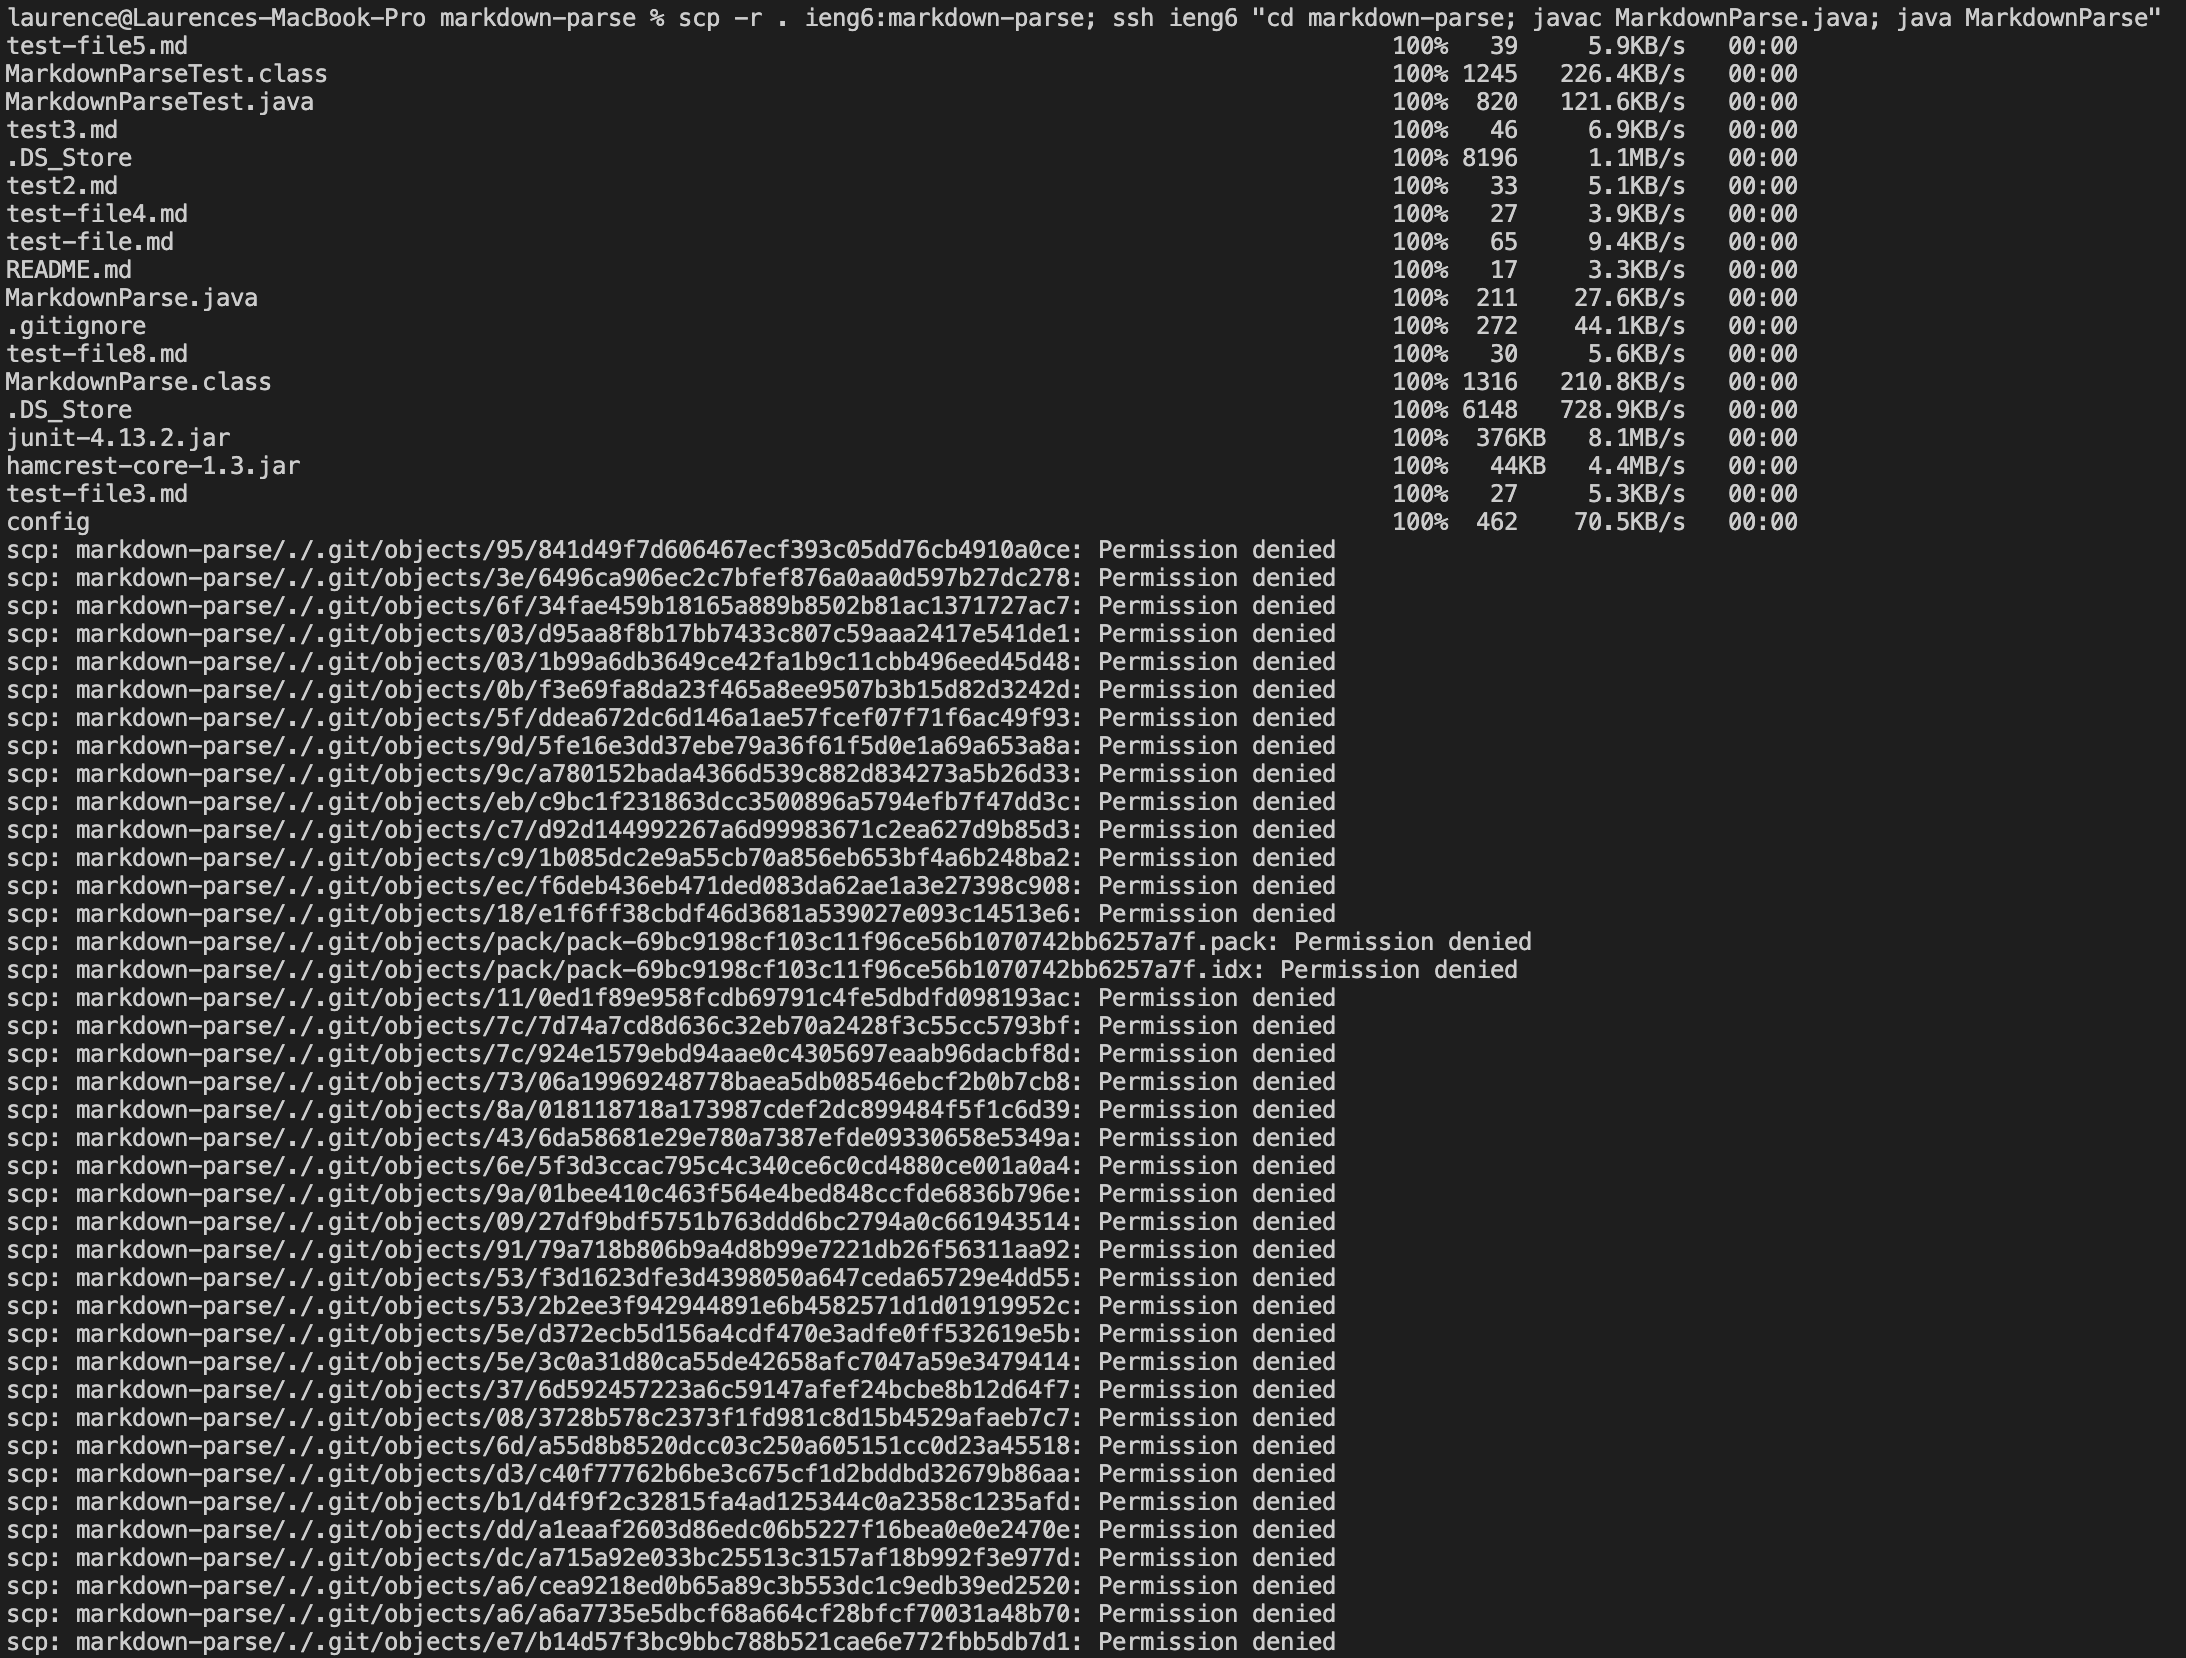
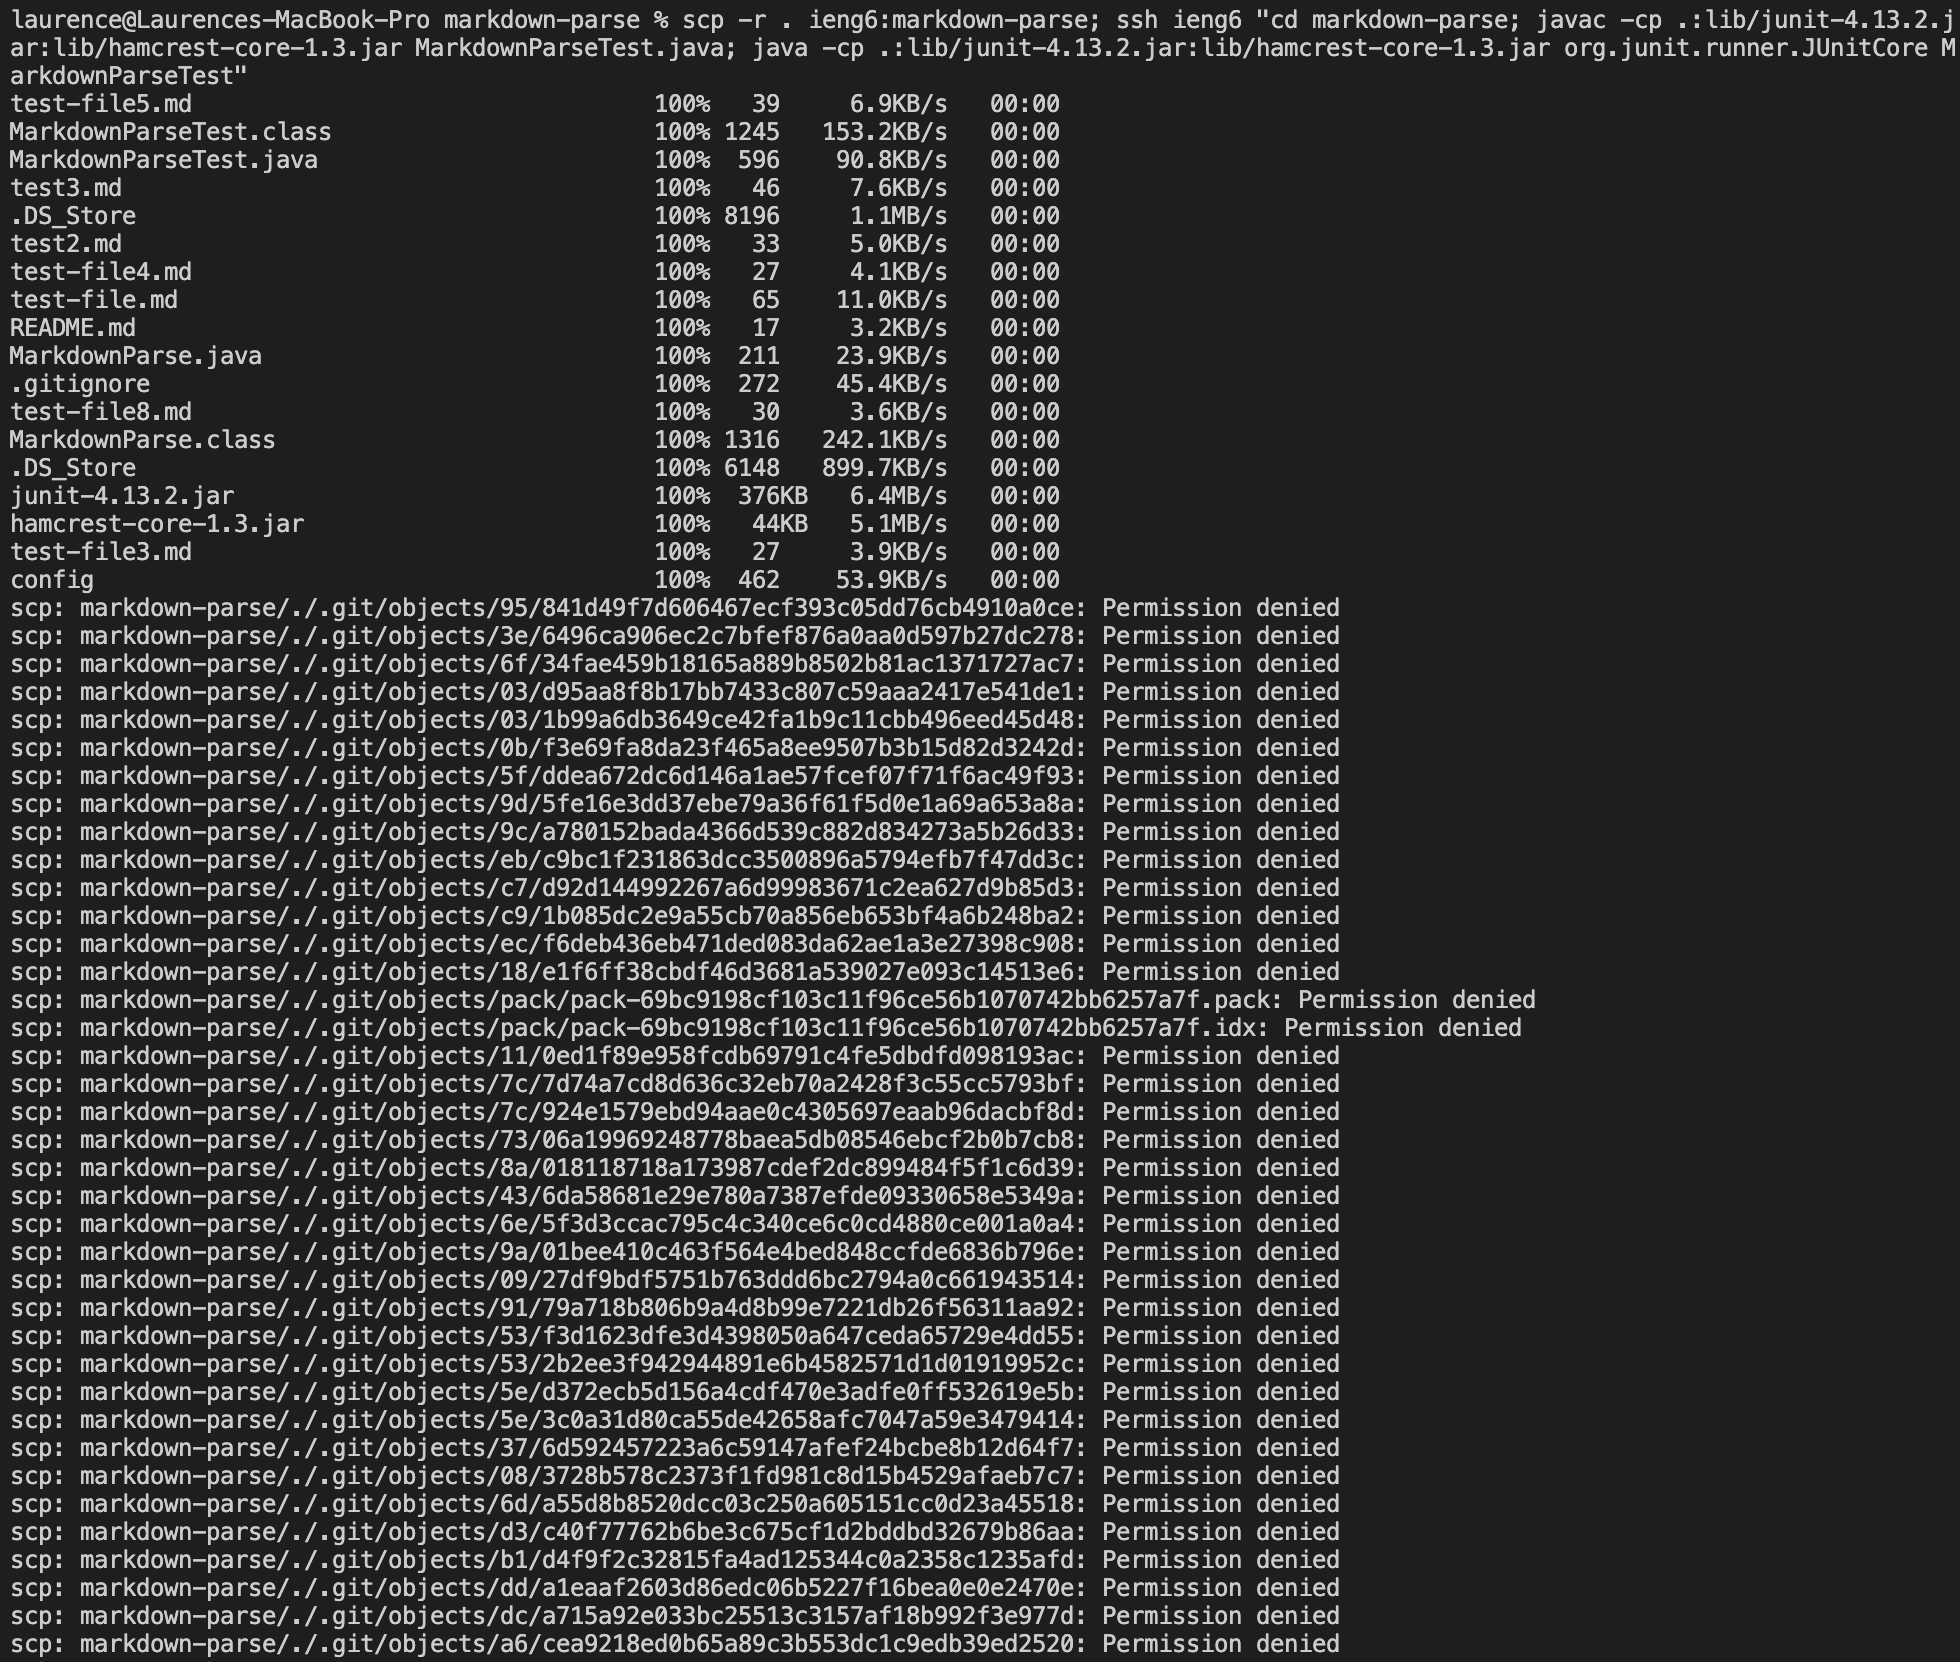
fixed test

Changed region(s): [[0.0, 0.0, 0.9959, 1.0]]

diff --git a/lab-report-3-week-6.md b/lab-report-3-week-6.md
@@ -27,7 +27,7 @@ I used the command `scp -r . ieng6:markdown-parse` to copy the whole `markdown-p
 ![Dir1](Dir1.png)
 ![Dir2](Dir2.png)
 
-I logged into the remote server, and then I compiled and ran the file:
+I logged into the remote server, and then I compiled and ran the file successfully:
 ![Running](Running.png)
 
 I combined all command in a line, and here is my result:
